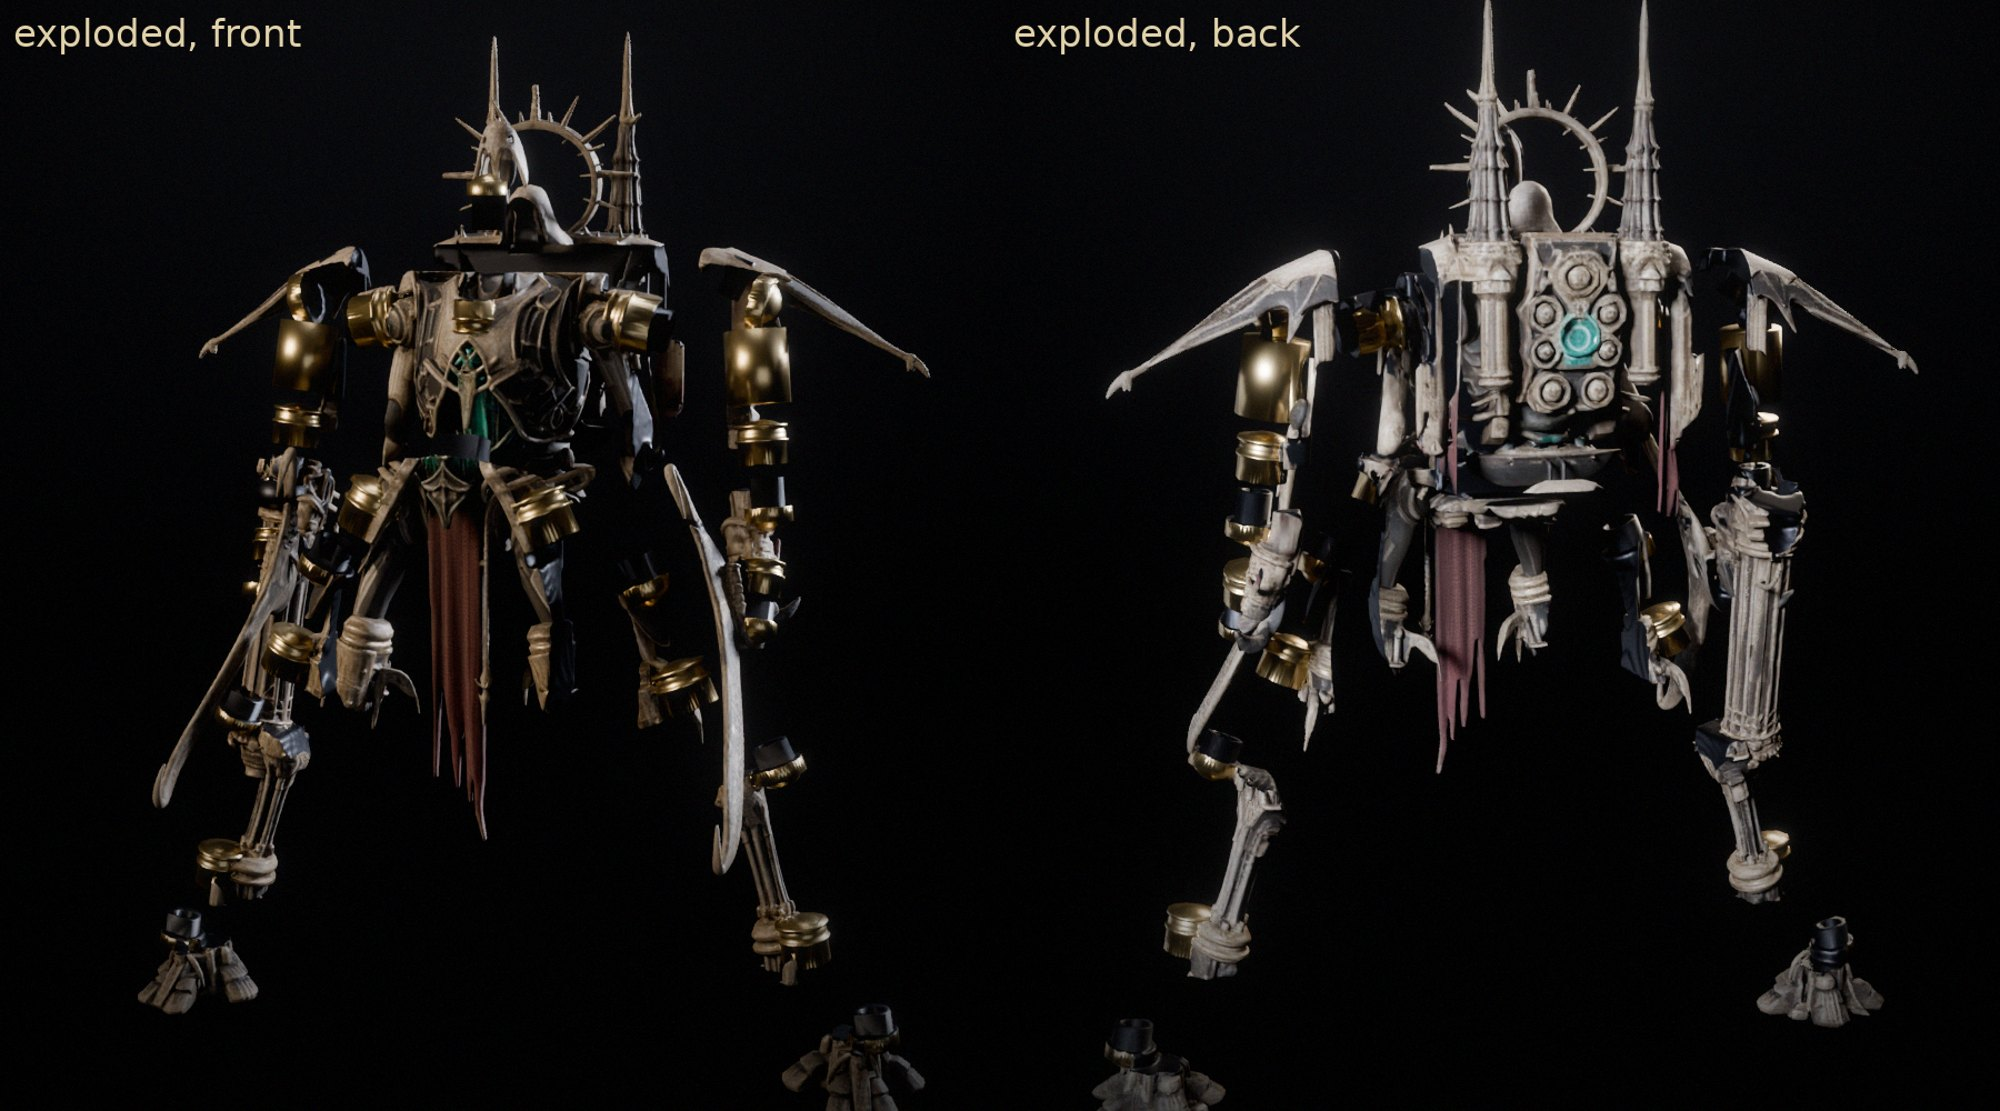
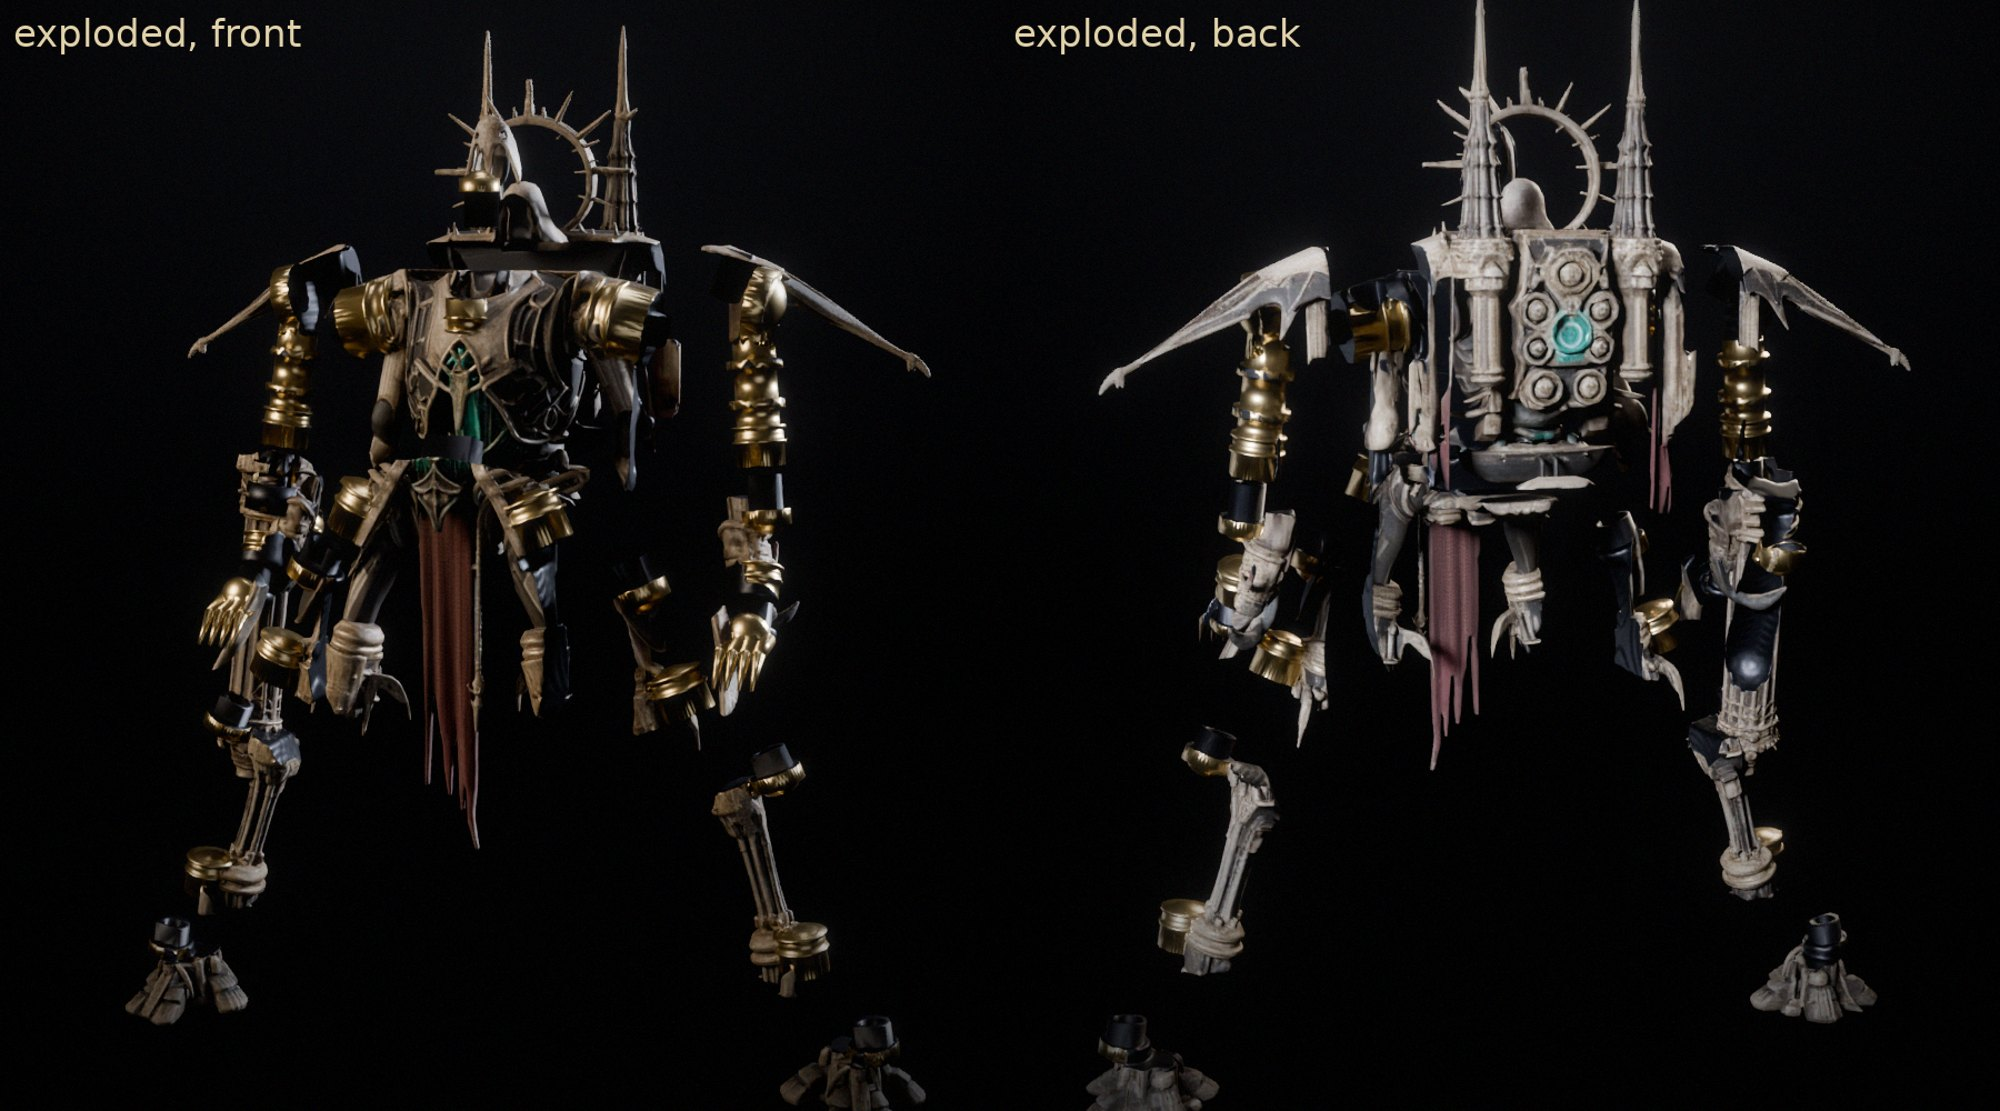
Goliath: drop the white staff blades, claw hands, gilded upper-arm rods, shoulder joint with a magnet
Claude-Session: https://claude.ai/code/session_01Y2rKcpXZVkjcxQG7LVq7Cq

diff --git a/assets/blender/parts/composite/goliath.py b/assets/blender/parts/composite/goliath.py
@@ -14,8 +14,8 @@ to this figure:
   at Luke's 1.5x that is 75 mm to the hood top and about 93 mm to the spire tips.
 * **The Arc Cannon.** The figure's right forearm is the cannon, held level and pointing forward. Like the Sentinel's gun
   it is cut from the right, mirrored, and re-seated on the forearm's socket (RESEAT), so it fits an elbow of either side.
-* **The staff.** The left hand holds the hooked Soul Lantern staff. It is cut with the hand as one part ("Hand + staff"):
-  a swappable staff item on the wrist needs a socket the figure does not have (follow-up).
+* **The staff.** The left hand holds a hooked staff in the mesh. Luke did not like the long white blade it made on both
+  hands (the hand is mirrored), so it is dropped: the hand is a bare clawed hand. A staff item would be a new model (follow-up).
 * **Dropped.** The tattered cloth, hanging chains and small lanterns that Meshy added to the wing spars and the gun
   (they would not print) are labelled `drop`, as is anything hanging below the elbows away from the legs. The central
   banner stays with the pelvis, as the Sentinel's tabard does.
@@ -50,7 +50,7 @@ BONES_C = {
 }
 BONES_S = {
     "pauldron": ((0.34, 0.27, 0.44), (0.50, 0.27, 0.40), 0.16),
-    "arm": ((0.36, 0.27, 0.38), (0.40, 0.23, 0.02), 0.09),
+    "arm": ((0.36, 0.27, 0.38), (0.40, 0.23, 0.02), 0.06),
     "forearm": ((0.40, 0.23, 0.02), (0.40, 0.15, -0.17), 0.10),
     "hand": ((0.40, 0.14, -0.17), (0.40, 0.05, -0.27), 0.10),
     "thigh": ((0.22, 0.20, -0.12), (0.34, 0.20, -0.38), 0.13),
@@ -64,7 +64,7 @@ HELM = ((0.0, 0.05, 0.52), (0.115, 0.14, 0.12))               # hood: centre, ra
 
 PARTS = {
     "torso": ["torso"], "pelvis": ["pelvis", "tabard"], "helm": ["helm"], "back": ["back"],
-    "pauldron": ["pauldron_L"], "arm": ["arm_L"], "forearm": ["forearm_L"], "hand": ["hand_L", "staff"],
+    "pauldron": ["pauldron_L"], "arm": ["arm_L"], "forearm": ["forearm_L"], "hand": ["hand_L"],
     "thigh": ["thigh_L"], "shin": ["shin_L"], "foot": ["foot_L"], "gun": ["gun"],
     "_pauldron_R": ["pauldron_R"], "_arm_R": ["arm_R"], "_forearm_R": ["forearm_R"], "_hand_R": ["hand_R"],
     "_thigh_R": ["thigh_R"], "_shin_R": ["shin_R"], "_foot_R": ["foot_R"], "_drop": ["drop"],
@@ -108,10 +108,12 @@ def _toward(a, b):
 
 # Ball knuckles in gilded sleeves (the Seer's standard, seer.py): the Goliath's limbs are gaunt, so every limb joint gets
 # one, designed in rather than found. child part -> (joint, axis from the child into its parent, radius in figure units).
+HAND_DIR = np.array([0.0, -0.97, -0.24])   # the claws reach forward and a little down, clear of the thigh
+ARM_ROD_R = 2.2             # mm at print scale
 KG = 0.8                     # first cut at 1.0 looked like gold top hats on the gaunt limbs
 KNUCKLES = {
     "helm": ("neck", (0.0, 0.0, -1.0), 0.055),
-    "arm": ("shoulder", (-1.0, 0.0, 0.2), 0.080),
+    "arm": ("shoulder", (-1.0, 0.0, 0.2), 0.098),   # bigger: the shoulder peg needs depth for a magnet
     "forearm": ("elbow", _toward("elbow", "shoulder"), 0.068),
     "hand": ("wrist", _toward("wrist", "elbow"), 0.060),
     "thigh": ("hip", _toward("knee", "hip"), 0.078),
@@ -164,16 +166,41 @@ def extra_solids(mf, to_mm):
             Rm = np.eye(3) + vx + vx @ vx * ((1 - cth) / sn ** 2)
         Mx = np.concatenate([Rm, c[:, None]], 1)
         out.append(k.transform(Mx.tolist()))
+    # the upper arm: a gilded rod with two bands between the shoulder and elbow knuckles (both sides)
+    A, B = to_mm(np.array(JOINTS["shoulder"])), to_mm(np.array(JOINTS["elbow"]))
+    for sx in (1, -1):
+        a, b = A * (sx, 1, 1), B * (sx, 1, 1)
+        out.append(_capsule(mf, a, b, ARM_ROD_R))
+        for t in (0.38, 0.62):
+            c = a + (b - a) * t
+            d = (b - a) / np.linalg.norm(b - a)
+            out.append(_capsule(mf, c - d * 0.45, c + d * 0.45, ARM_ROD_R * 1.3))
+    # the hand: the mesh has almost none (the staff hid it), so it is a gilded palm with four long clawed fingers
+    Wr = to_mm(np.array(JOINTS["wrist"]))
+    d = HAND_DIR
+    for sx in (1, -1):
+        w = Wr * (sx, 1, 1)
+        dd = d * (sx, 1, 1)
+        e1 = np.array([sx, 0.0, 0.0])
+        out.append(mf.Manifold.sphere(2.7, 32).translate(tuple(w + dd * 1.5)))
+        for off in (-2.1, -0.7, 0.7, 2.1):
+            p0 = w + dd * 2.2 + e1 * off
+            p1 = p0 + dd * 4.0 - e1 * off * 0.1
+            bend = dd * np.cos(np.radians(38)) + np.array([0.0, 0.0, -np.sin(np.radians(38))])
+            p2 = p1 + bend * 3.6
+            out.append(_capsule(mf, p0, p1, 0.8, r1=0.65))
+            out.append(mf.Manifold.sphere(0.65, 16).translate(tuple(p1)))
+            out.append(_capsule(mf, p1, p2, 0.65, r1=0.18))
     solid = mf.Manifold.batch_boolean(out, mf.OpType.Add)
     return solid.set_properties(2, lambda p, old: (-2.0, -2.0))
 
 
-def _capsule(mf, A, B, r):
+def _capsule(mf, A, B, r, props=False, r1=None):
     A, B = np.asarray(A, float), np.asarray(B, float)
     d = B - A
     h = np.linalg.norm(d)
     a = d / h
-    cyl = mf.Manifold.cylinder(h, r, r, 24)
+    cyl = mf.Manifold.cylinder(h, r, r if r1 is None else r1, 24)
     zc = np.array([0.0, 0.0, 1.0])
     v = np.cross(zc, a)
     sn, cth = np.linalg.norm(v), zc @ a
@@ -182,11 +209,12 @@ def _capsule(mf, A, B, r):
     else:
         vx = np.array([[0, -v[2], v[1]], [v[2], 0, -v[0]], [-v[1], v[0], 0]])
         Rm = np.eye(3) + vx + vx @ vx * ((1 - cth) / sn ** 2)
-    return cyl.transform(np.concatenate([Rm, A[:, None]], 1).tolist()).set_properties(2, lambda p, old: (-2.0, -2.0))
+    out = cyl.transform(np.concatenate([Rm, A[:, None]], 1).tolist())
+    return out.set_properties(2, lambda p, old: (-2.0, -2.0)) if props else out
 
 
 def design(solid, mf):
-    """Drop the floating bits that Meshy's hanging chains and lanterns leave on a part, and join the upper arm."""
+    """Drop the floating bits that Meshy's hanging chains and lanterns leave on a part."""
     from layout import joint
     out = {}
     for k, m in solid.items():
@@ -195,11 +223,6 @@ def design(solid, mf):
         out[k] = mf.Manifold.batch_boolean(keep, mf.OpType.Add) if len(keep) > 1 else keep[0]
         if len(keep) < len(ps):
             print(f"  {k}: dropped {len(ps) - len(keep)} floating piece(s)")
-    # the upper arm's shaft and its shoulder knuckle meet through a hair of mesh: bridge them with a plain rod
-    if "arm" in out and len(out["arm"].decompose()) > 1:
-        A, B = np.array(joint("shoulder")), np.array(joint("elbow"))
-        out["arm"] = out["arm"] + _capsule(mf, A + (B - A) * 0.17, A + (B - A) * 0.62, 3.3)
-        print("  arm: bridged,", len(out["arm"].decompose()), "piece(s)")
     return out
 
 
@@ -211,7 +234,7 @@ BUDGET = {
 }
 LABEL = {
     "pelvis": "Pelvis + banner", "torso": "Reliquary torso", "helm": "Hood", "back": "Spires + halo + pack",
-    "pauldron": "Wing pauldron", "arm": "Upper arm", "forearm": "Forearm", "hand": "Hand + staff", "thigh": "Thigh",
+    "pauldron": "Wing pauldron", "arm": "Upper arm", "forearm": "Forearm", "hand": "Hand", "thigh": "Thigh",
     "shin": "Shin", "foot": "Foot", "gun": "Arc Cannon (equipment)",
 }
 EXPLODE, EXPLODE_DROP = 11.0, 4.0
@@ -255,6 +278,10 @@ def label_points(P, _cloth=None):
     setl((a > 0.28) & (y < 0.08) & (z < -0.27) & (z > -0.86), "drop")
     setl((a > 0.28) & (y > 0.33) & (z < 0.12) & (z > -0.70), "drop")
     setl((a > 0.52) & (z < 0.20) & (z > -0.86), "drop")
+    # the Meshy upper arm is a hollow shell half hidden by cloth: only a thin tube round the bone is kept (the designed
+    # gilded rod, see extra_solids); the shell round it is dropped. The cannon and the knuckles are labelled after this.
+    dshell = seg_d(Pm, *BONES_S["arm"][:2])
+    setl((dshell > 0.062) & (dshell < 0.12) & (z > 0.04) & (z < 0.34) & (a > 0.31), "drop")
     (px0, px1), (py0, py1), (pz0, pz1) = PAULDRON_BOX
     paul = (a >= px0) & (a < px1) & (y >= py0) & (y < py1) & (z >= pz0) & (z < pz1)
     setl(paul & L, "pauldron_L")
@@ -271,7 +298,17 @@ def label_points(P, _cloth=None):
     (gx0, gx1), (gy0, gy1), (gz0, gz1) = GUN
     setl((x >= gx0) & (x < gx1) & (y >= gy0) & (y < gy1) & (z >= gz0) & (z < gz1), "gun")
     (sx0, sx1), (sy0, sy1), (sz0, sz1) = STAFF
-    setl((x >= sx0) & (x < sx1) & (y >= sy0) & (y < sy1) & (z >= sz0) & (z < sz1), "staff")
+    setl((x >= sx0) & (x < sx1) & (y >= sy0) & (y < sy1) & (z >= sz0) & (z < sz1), "drop")   # Luke: no white staff blades
+    # the designed claw hand: a short capsule from the wrist along the claws' direction (clear of the thigh: y < 0.09)
+    wr = np.array(JOINTS["wrist"], np.float32)
+    dh = HAND_DIR.astype(np.float32)
+    dh = dh / np.linalg.norm(dh)
+    Wm = wr * np.array([1, 1, 1], np.float32)
+    t = np.clip(((Pm - Wm) @ dh) / 0.34, 0, 1)
+    dist = np.linalg.norm(Pm - (Wm + t[:, None] * 0.34 * dh), axis=1)
+    claw = (dist < 0.09) & (y < 0.09) & (a > 0.30)
+    setl(claw & L, "hand_L")
+    setl(claw & ~L, "hand_R")
     # knuckles: inside a ball (and its sleeve), the cut is the plane through its centre, square to the bone
     for child, side, c, a, R in knuckles():
         lab_c, lab_p = _knuckle_labels(child, side)

diff --git a/docs/goliath-composite/README.md b/docs/goliath-composite/README.md
@@ -18,12 +18,18 @@ shared composite pipeline (`MODEL=goliath`, settings in `assets/blender/parts/co
 
 Pelvis (with the central banner), torso (the reliquary cage), hood, **back** (two spires, the halo ring and the pack: the halo
 grows from the spires in the mesh, so it is one part with them), and the left-hand set, mirrored for the right: wing pauldron, upper arm,
-forearm, **hand with its staff** (the hooked Soul Lantern staff is one piece with the hand), thigh, shin, foot. The twelfth part is the
+forearm, **claw hand**, thigh, shin, foot. The twelfth part is the
 **Arc Cannon**: the figure's own forearm, re-seated on the forearm socket like the Sentinel's gun, so it fits either elbow. Every part is
 one closed solid (report.json).
 
 The mesh was **mirrored in x once** before cutting (`mesh_orig.npz` keeps the original) so the cannon falls on the figure's right,
 where the pipeline expects a gun, and the staff arm is the plain left arm.
+
+**Revision after Luke's review (2026-11-07).** He disliked the long white blades (the staff, which came out on both hands because the hand is
+mirrored), and the arm joints. The staff is gone and the hand is a designed gilded claw (a palm and four clawed fingers reaching forward;
+the Meshy hand was only a 5 mm blob once the staff was cut away). The Meshy upper arm is a hollow shell, so the shell is dropped and the
+upper arm is a gilded rod with two bands between the knuckles (the first fix, a core rod through the shell, showed through as gold slabs).
+The shoulder ball is bigger so the shoulder peg has room for a magnet.
 
 **Ball knuckles.** The Reliquary limbs are gaunt (5 to 7 mm at print scale). Following the Seer, every limb joint (neck, shoulder, elbow,
 wrist, hip, knee, ankle) has a designed gold ball knuckle in a gilded sleeve, added to the figure before the cut. A first pass at full size
@@ -35,24 +41,23 @@ looked like gold top hats, so they are 80% of that.
 | torso / pelvis | 3.0 | 2.6 | 3 x 2 |
 | hood into torso | 1.75 | 3.5 | 2 x 1 |
 | back / torso | 3.0 | 3.5 | 3 x 2 |
-| pauldron into torso | 1.3 | 3.0 | 2 x 1 |
-| arm / torso (shoulder) | 2.2 | 1.2 | **none** |
-| forearm / arm, Arc Cannon / arm | 1.75 | 3.0 | 2 x 1 |
-| hand / forearm | 1.75 | 2.2 | 2 x 1 |
+| pauldron into torso | 1.75 | 3.5 | 2 x 1 |
+| arm / torso (shoulder) | 1.75 | 1.5 | 2 x 1 |
+| forearm / arm, Arc Cannon / arm | 1.75 | 3.5 | 2 x 1 |
+| hand / forearm | 1.75 | 2.6 | 2 x 1 |
 | shin into thigh, foot / shin | 2.0 | 2.2 | 2 x 1 |
 
 All pass the strict checks (hole walls inside the part, no break-outs, mirrored side clear).
 
 ## Things to know
 
-- **Weakest joint: the shoulder.** The upper arm plugs into the torso with a 1.2 mm peg and no magnet. The pauldron is a 1.3 mm peg with a 2 x 1 magnet.
+- **Shoulders are still chunky.** The shoulder knuckle is a gold ball in a barrel sleeve, bigger than the other joints so the peg can take a magnet (a smaller one gave a 1 mm peg with a 1 x 1 magnet). The joint is fine; the look is heavier than the concept.
 - **Dropped from the mesh.** The tattered cloth, chains and small lanterns on the wing spars and cannon (about 6 floating bits) are gone, as
-  planned in the design note. The central banner stays on the pelvis. The arm needed a 6.6 mm core rod to join its shoulder knuckle to the
-  elbow sleeve (the Meshy arm is a hollow shell there; `design()` in goliath.py).
-- **Thin parts.** The hood is 6 mm wide (68 mm3), the wing pauldron is a 23 mm blade 10 mm deep, and the staff is a 37 mm long blade on the hand.
-  They are closed solids but fragile; they will need a test print.
-- **Not cut.** The staff is not a swappable item (it is one piece with the hand), and the shoulder plate itself is part of the torso:
-  the Meshy mesh has no separate plate under the wing spar.
+  planned in the design note. The central banner stays on the pelvis.
+- **Thin parts.** The hood is 6 mm wide (68 mm3), the wing pauldron is a 23 mm blade 8 mm deep, and the claw fingers are 1.3 to 1.6 mm thick
+  at the base. They are closed solids but fragile; they will need a test print.
+- **Not cut.** There is no staff item any more, and the shoulder plate itself is part of the torso: the Meshy mesh has no separate plate
+  under the wing spar.
 - **Colour.** The retexture came out pale bone with gold only on the knuckles; the concept art has more aged gold on the limbs. A recolour
   pass (as for the Artillery) would fix it.
 - **Not test-printed.** Magnet pockets are 0.1 mm over stock size, as on the other walkers.
@@ -60,4 +65,4 @@ All pass the strict checks (hole walls inside the part, no break-outs, mirrored 
 ## Not done yet
 
 Game publish (`publish-composite.mjs`, a `reliquary/titan` frame tune and fit class), `parts.json` rows and card faces for the six Goliath
-body cards, and the Arc Cannon item model for the game.
+body cards, the Arc Cannon item model for the game, and a Soul Lantern staff if one is wanted (it would be a new model).
